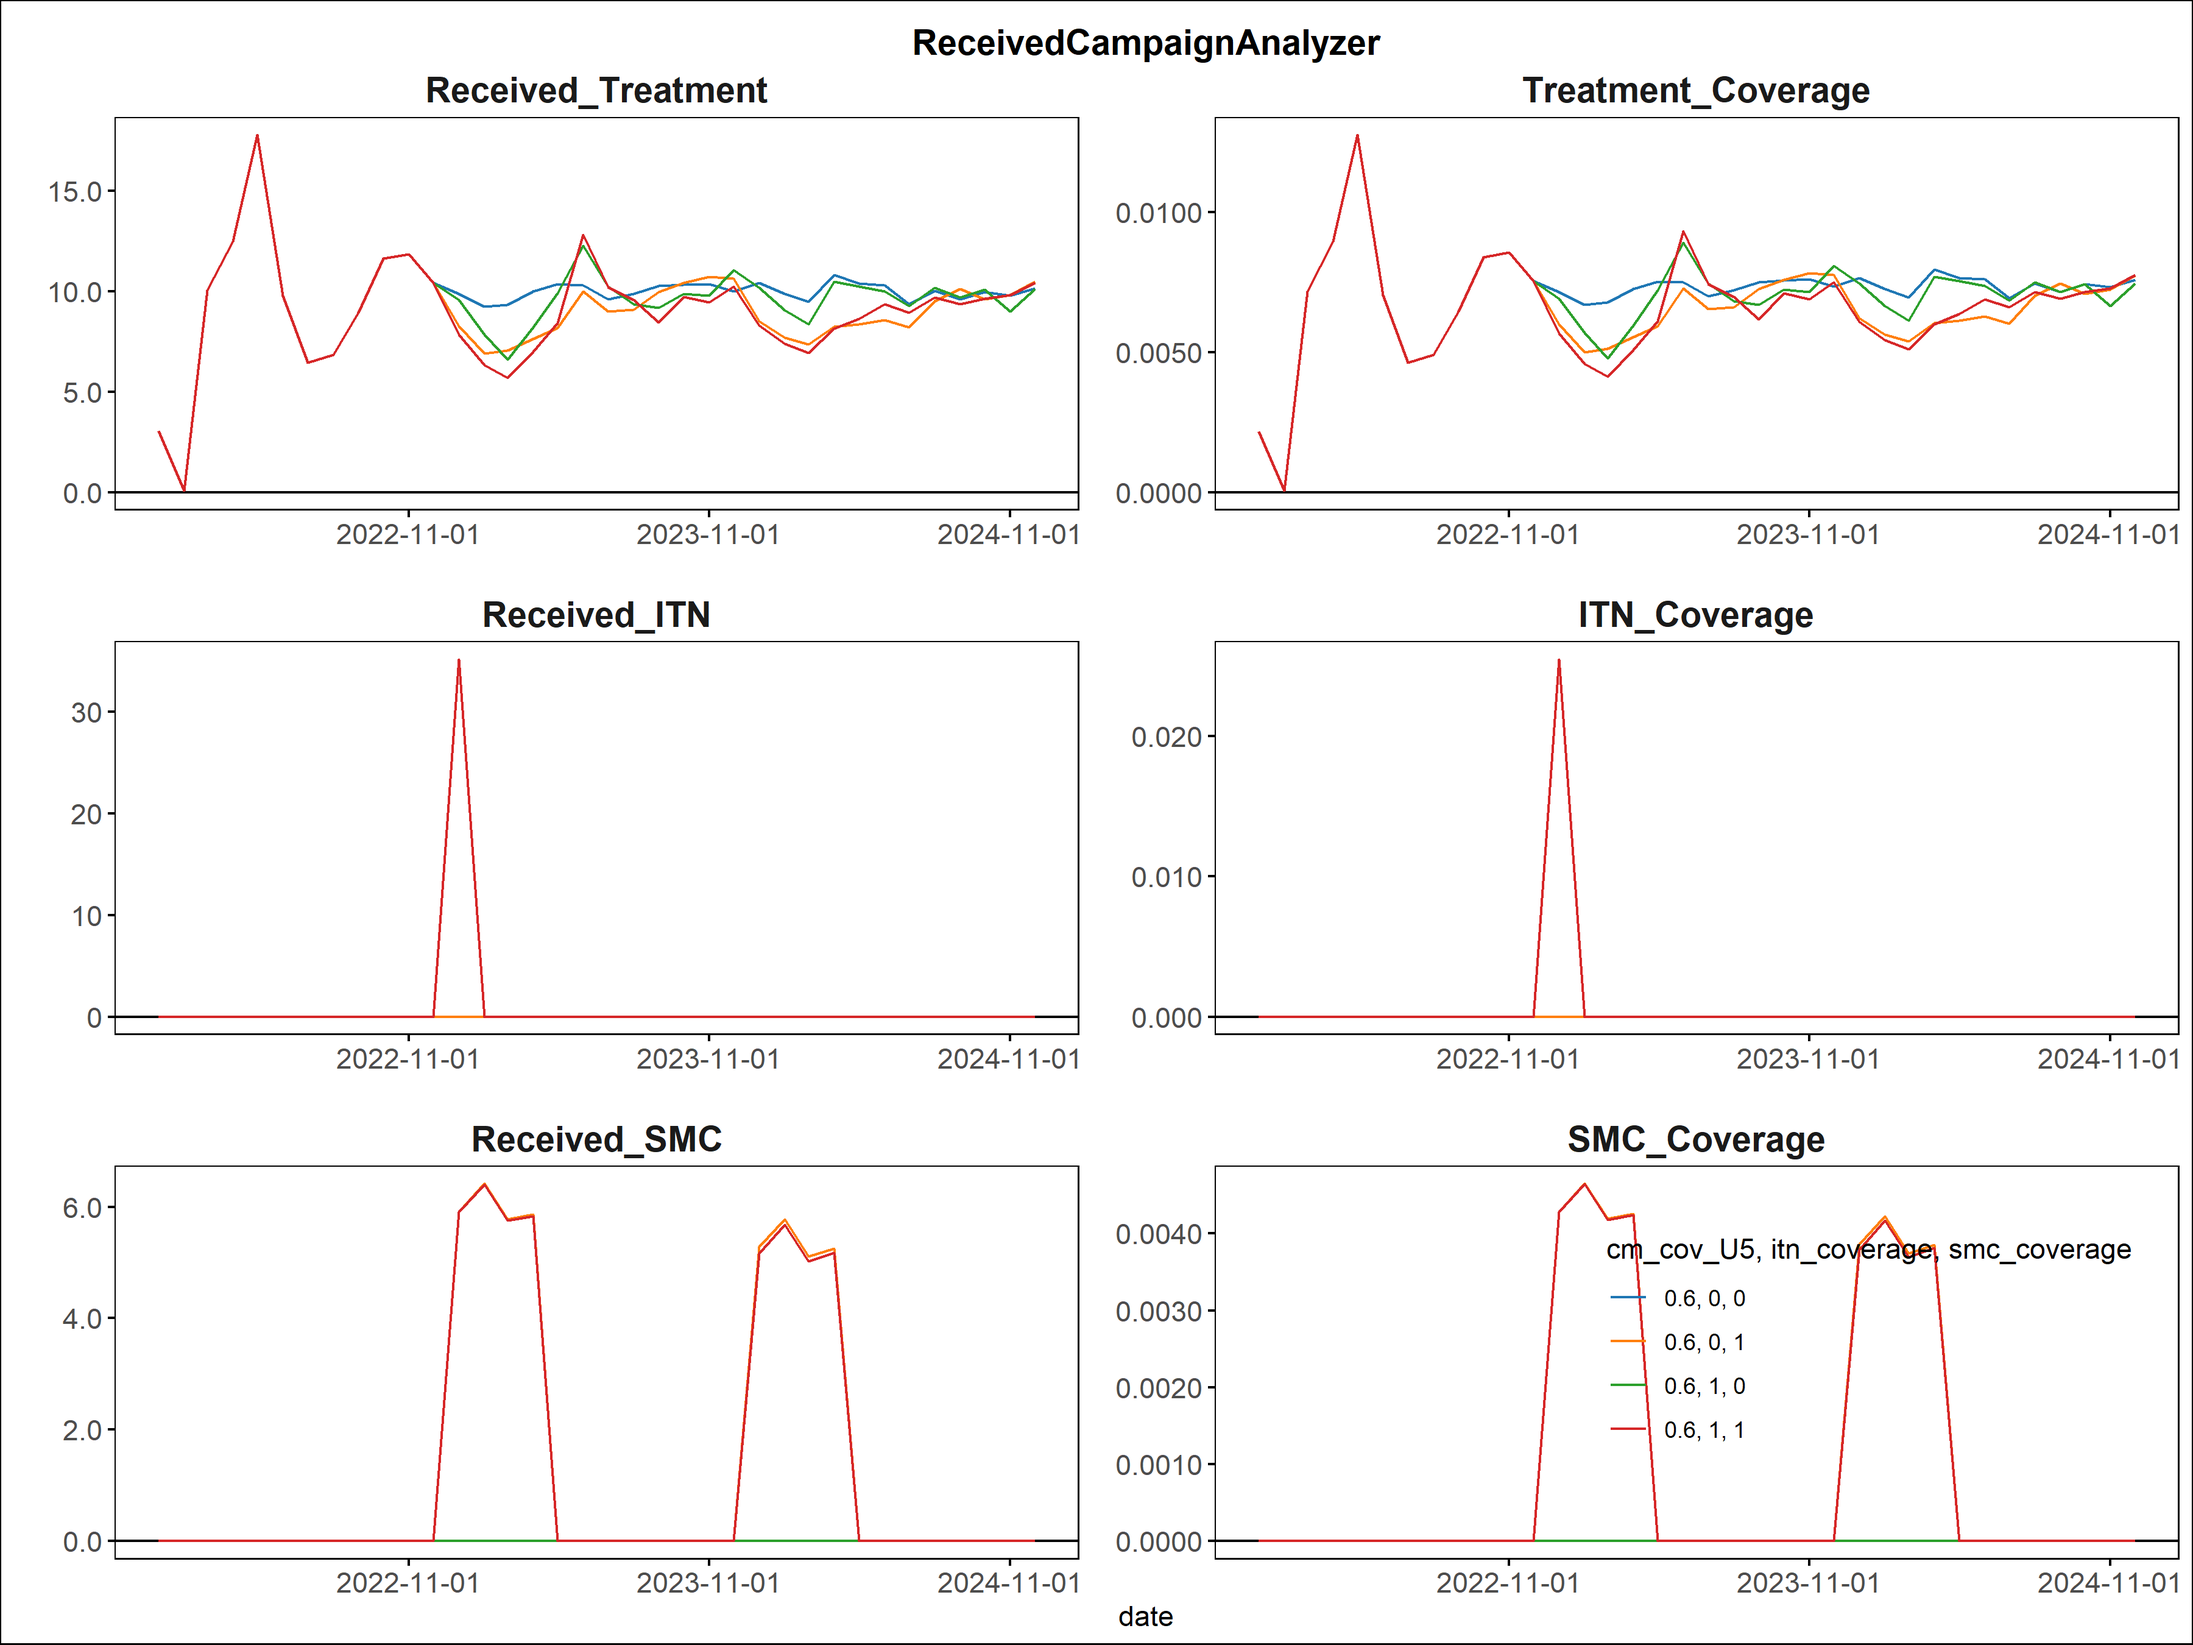
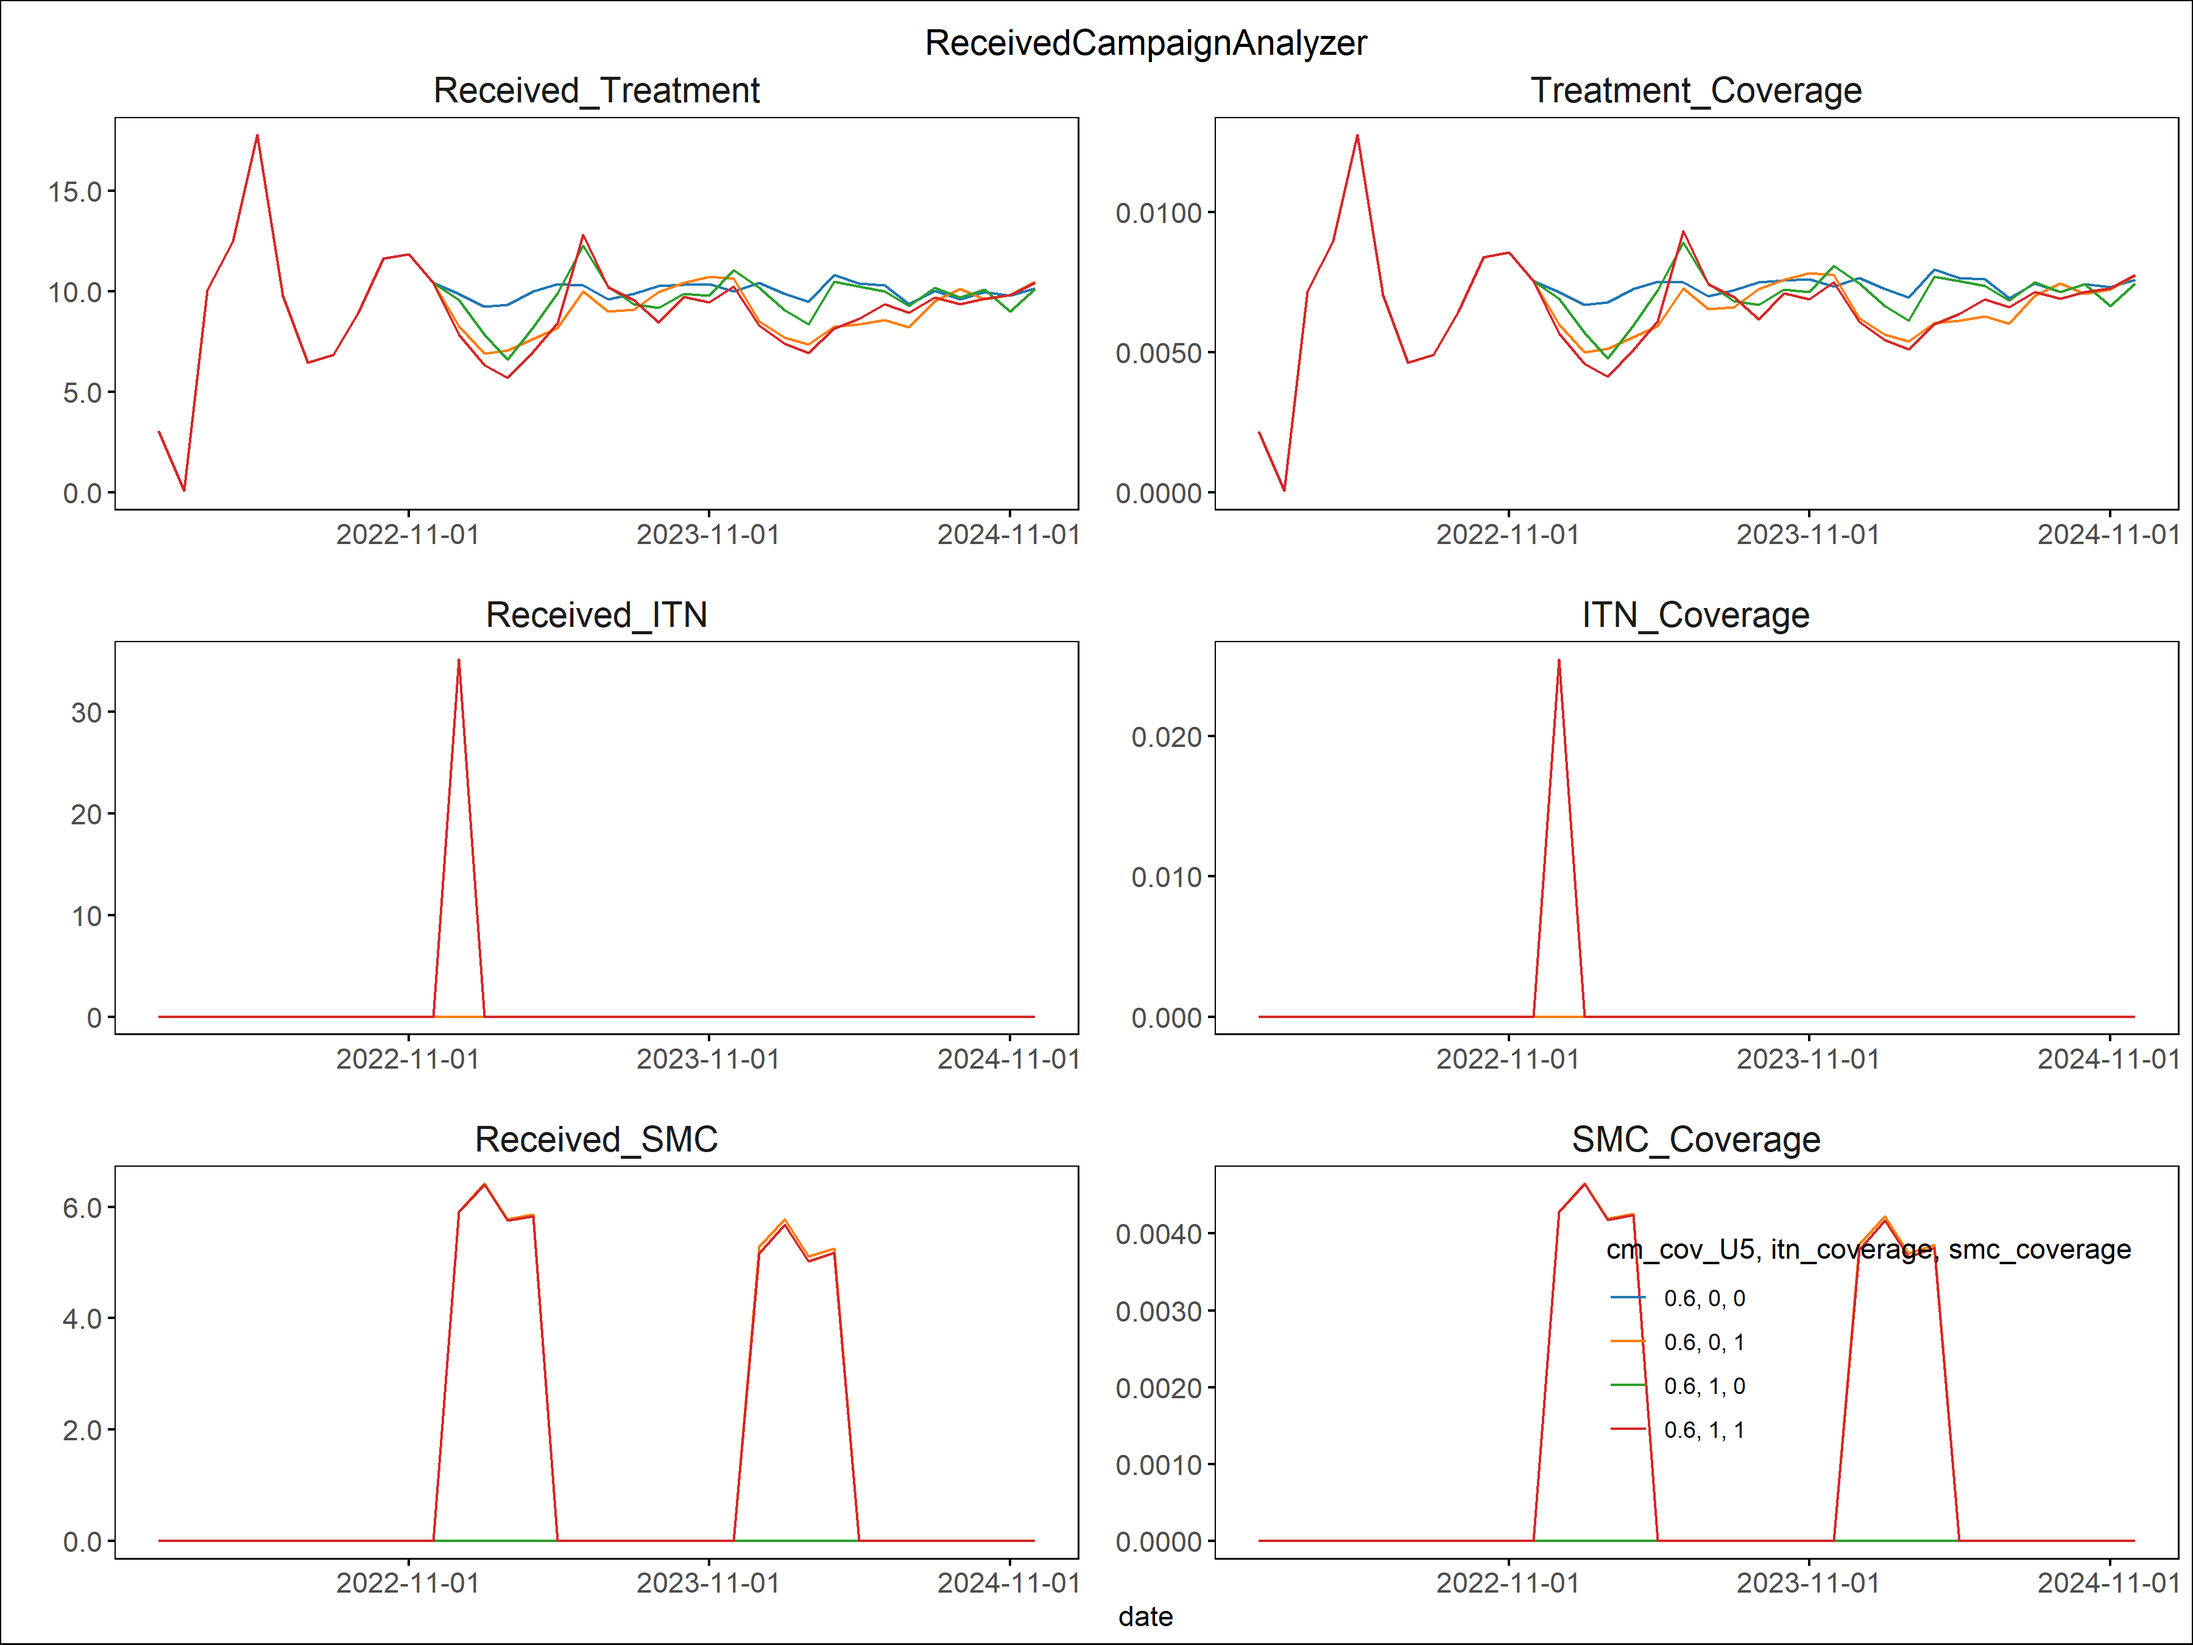
small R plot layout adjustments from previous PR week4

diff --git a/README.md b/README.md
@@ -822,18 +822,18 @@ Example All_Age_Monthly_Cases figure generated in R
 ![img](static/w4_InsetChart_R.png)
 
 <!--
-Default example Transmission_Monthly figure generated in Python  
+Example Transmission_Monthly figure generated in Python  
 ![img](static/w4_Transmission_Monthly.png)
 
 
-Default example All_Age_Monthly_Cases figure generated in R  
+Example All_Age_Monthly_Cases figure generated in R  
 ![img](static/w4_Transmission_Monthly_R.png)
 -->
 
-Default example Events figure generated in Python  
+Example Events figure generated in Python  
 ![img](static/w4_Events.png)  
 
-Default example Events figure generated in R
+Example Events figure generated in R
 ![img](static/w4_Events_R.png)  
 
 </p>
